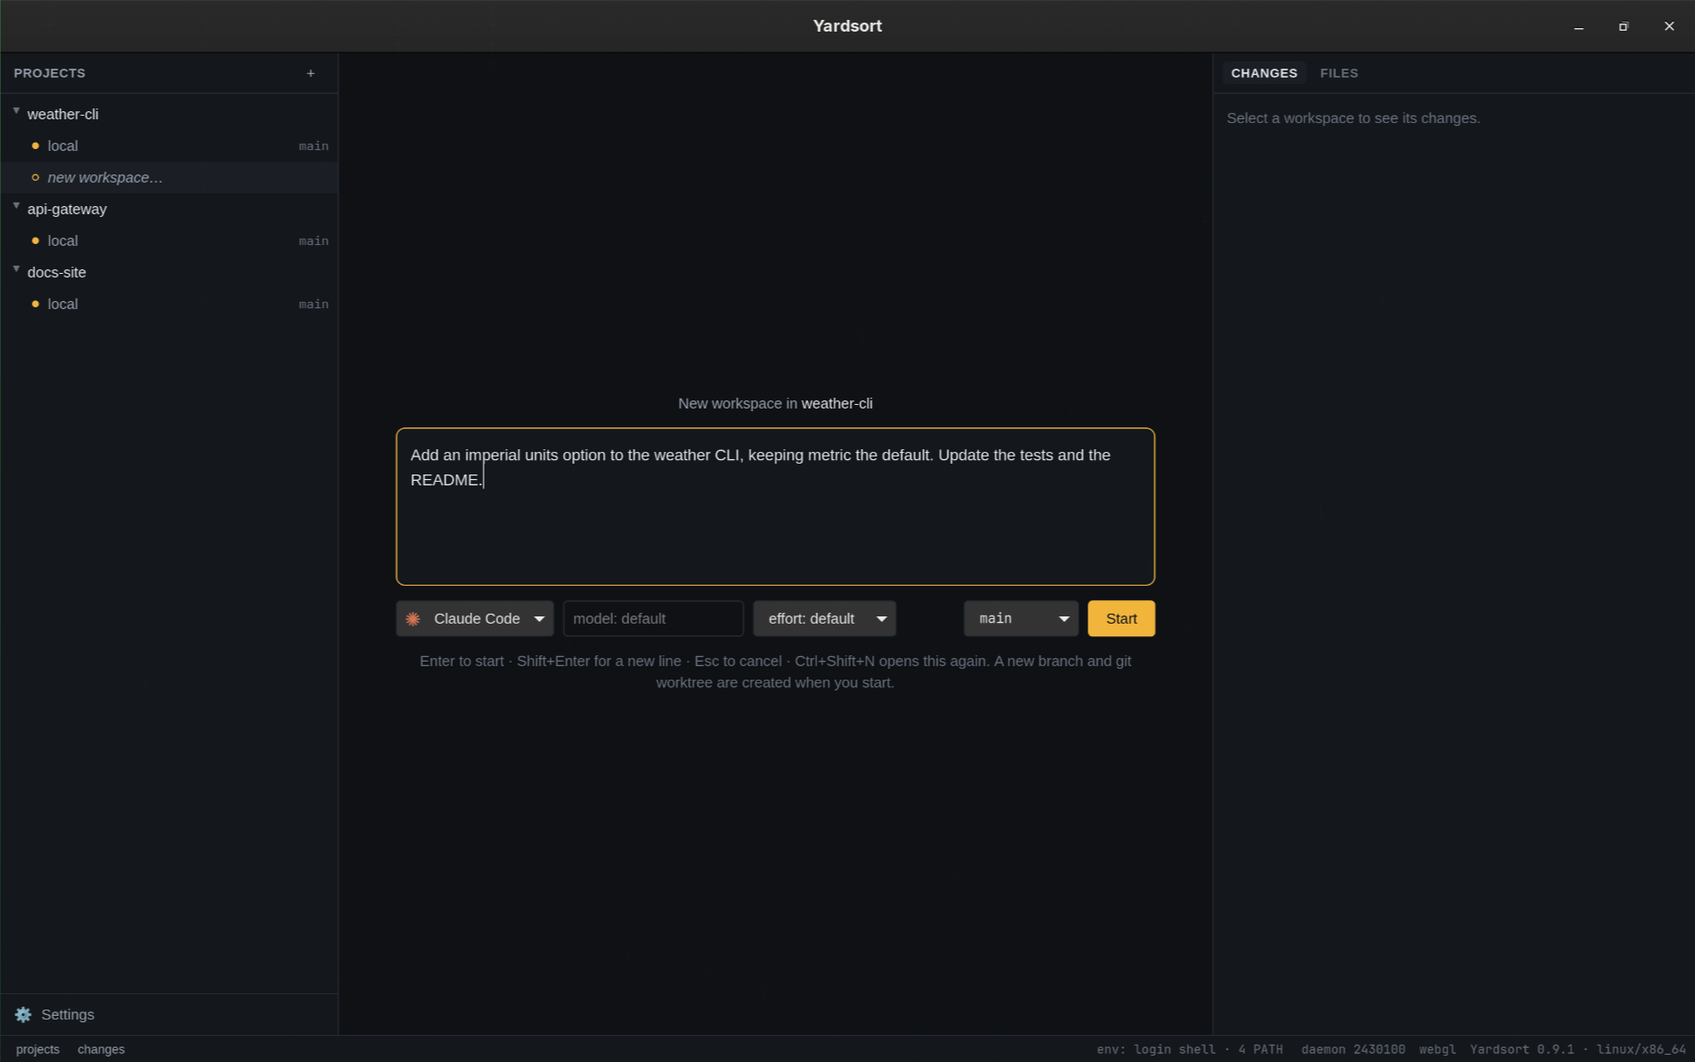
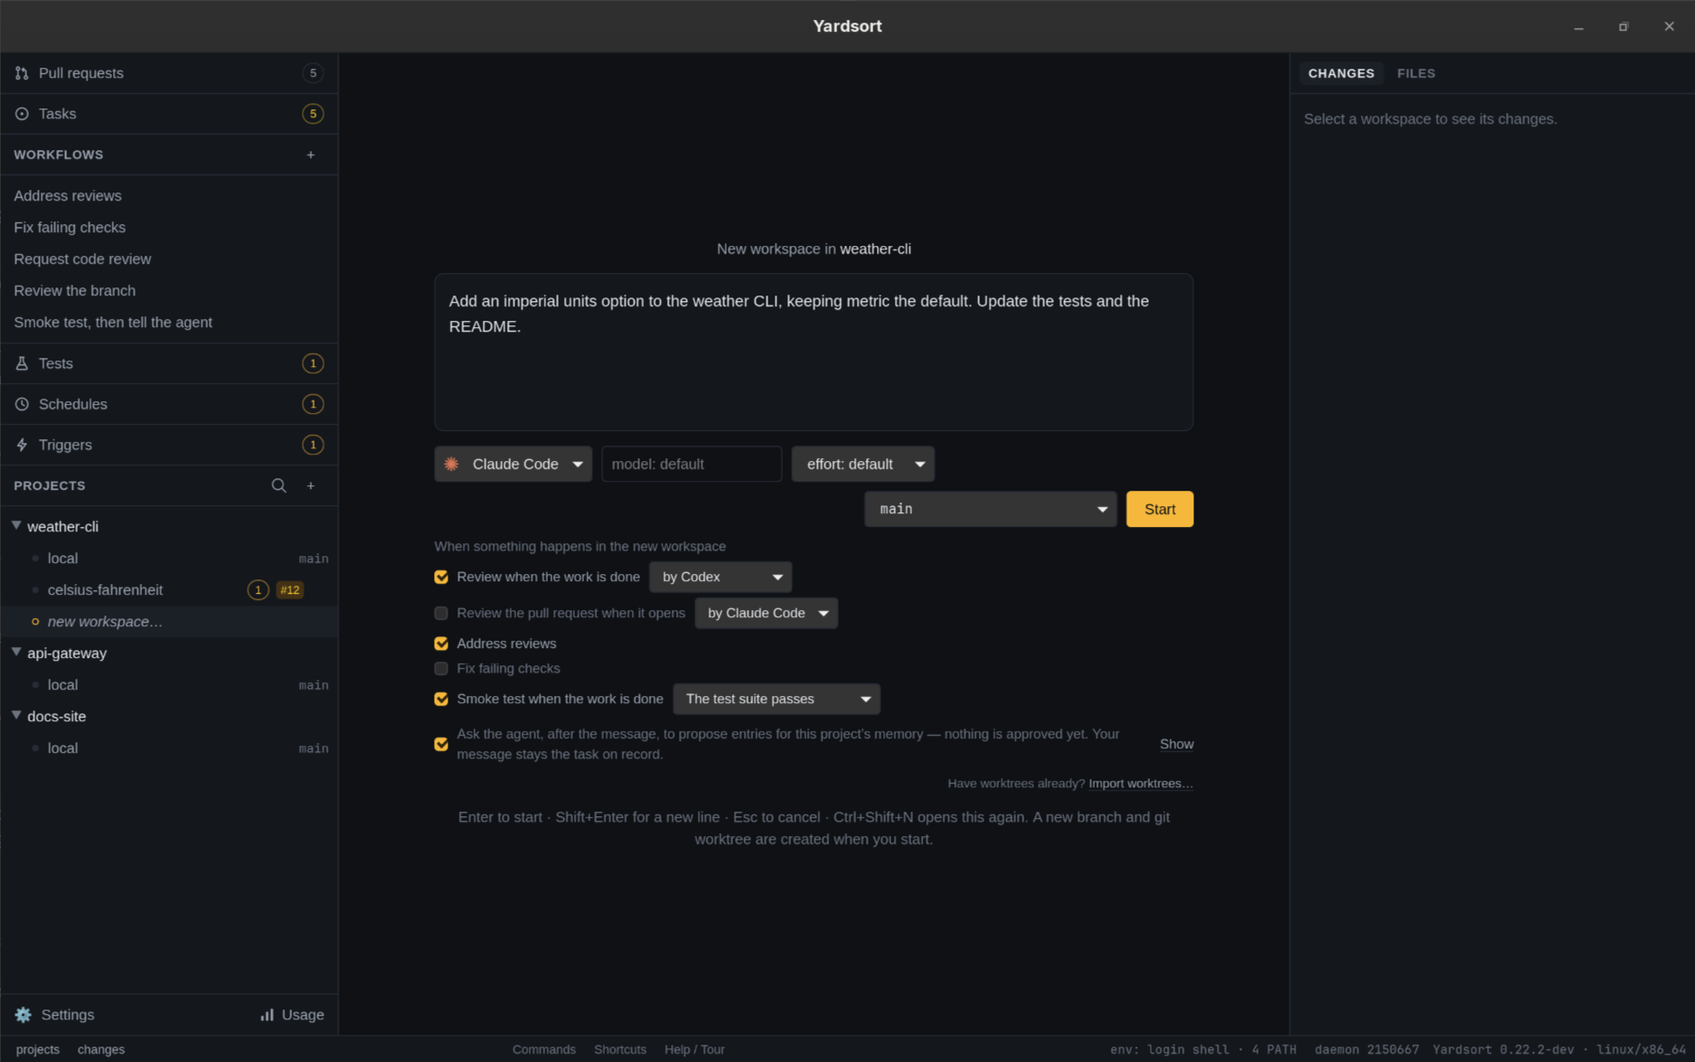
Triggers, slice 5: the documentation, finished (M29)
- README: a highlight, a "Triggers: when something happens" section with a screenshot and two
  commands, and Schedules and Triggers in the documentation table.
- Site: a "10 · Triggers" section on the landing page, `ys trigger add --preset` among its
  commands, and the guide's description naming pull request and custom events.
- Screenshots: docs/images/triggers.png, new; composer.png retaken with the trigger presets
  (it was from 0.9.1).
- scripts/screenshots.sh seed adds five triggers with their history and #12's watch as already
  seen, and the stand-in gh answers a watch's question for every open demo pull request.
- The quick start says what the composer's boxes are; trigger paragraphs reflowed to 100
  columns; slice 5 recorded in the design and ticked on the roadmap. M29's exit still wants
  macOS and Windows by hand.

diff --git a/website/src/components/landing/ideas.tsx b/website/src/components/landing/ideas.tsx
@@ -88,7 +88,7 @@ export function Ideas() {
           shot={
             <Shot
               name="composer"
-              alt="The composer: describe a task, pick an agent, model, effort and branch"
+              alt="The composer: describe a task, pick an agent, model, effort and branch, and tick the triggers the new workspace gets"
             />
           }
         >
@@ -327,6 +327,39 @@ export function Ideas() {
             project&apos;s schedules with the next time each fires and how its last time went. A
             notification tells you when a run fails, and a schedule approves nothing: a smoke test
             file nobody has approved still waits for you. <code className={code}>ys schedule</code>{" "}
+            does it all from a terminal.
+          </p>
+        </Idea>
+
+        <Idea
+          shotFirst
+          label="10 · Triggers"
+          title="When something happens"
+          shot={
+            <Shot
+              name="triggers"
+              alt="Triggers: every trigger with its event, what it runs and how its last run went, and one open with its history"
+            />
+          }
+        >
+          <p>
+            A trigger starts a workflow or a smoke test when something happens in a workspace: the
+            agent says its work is done, someone reviews the pull request, its checks fail, a run
+            ends, or an agent, a test or a script raises an event you named with{" "}
+            <code className={code}>ys event emit</code>.
+          </p>
+          <p>
+            Five come ready made — <strong className={strong}>Address reviews</strong>,{" "}
+            <strong className={strong}>Fix failing checks</strong>, a review when the pull request
+            opens, and a review or a smoke test when the work is done — and the composer offers them
+            as boxes to tick for each new workspace. By default only posts from other accounts
+            count, since the agents answer as yours.
+          </p>
+          <p>
+            <strong className={strong}>Triggers</strong>, in the sidebar, lists every project&apos;s
+            triggers with their history. A trigger stops after three runs for one pull request until
+            you reset it, unless you give it more; it starts at most ten an hour; and a chain of
+            runs that set each other off stops three deep. <code className={code}>ys trigger</code>{" "}
             does it all from a terminal.
           </p>
         </Idea>

diff --git a/website/src/lib/docs.ts b/website/src/lib/docs.ts
@@ -146,7 +146,7 @@ export const DOCS_NAV: DocSection[] = [
         slug: "guide/triggers",
         title: "Triggers",
         description:
-          "Start a workflow or a smoke test in Yardsort when something happens: an agent says it is done, finishes a turn or exits, or a run ends, with limits against loops and ys trigger.",
+          "Start a workflow or a smoke test in Yardsort when something happens: an agent says it is done, a pull request gets a review or failing checks, a run ends, or a custom event, with presets, limits against loops and ys trigger.",
       },
       {
         slug: "guide/updates",

diff --git a/website/src/components/landing/cli.tsx b/website/src/components/landing/cli.tsx
@@ -43,6 +43,10 @@ const LINES: { command: string; note: string }[] = [
     note: "run a smoke test and read its verdict with ys test wait",
   },
   {
+    command: "ys trigger add --preset address-reviews",
+    note: "in a workspace's folder: its agent answers every review on the pull request",
+  },
+  {
     command: "ys workspace delete fix-the-flaky-login-test",
     note: "the folder goes; the branch stays",
   },

diff --git a/docs/guide/triggers.md b/docs/guide/triggers.md
@@ -1,11 +1,11 @@
 # Triggers
 
-A trigger starts a [workflow](workflows.md) or a [smoke test](smoke-tests.md) when something
-happens in a workspace, instead of when you press **Run** or a [schedule](schedules.md)'s time
-comes: an agent says its work is done, an agent finishes a turn or exits, a smoke test or a
-workflow run ends, something happens on the workspace's pull request — it opens, a review or a
-comment comes in, its checks fail — or something you name happens, which an agent, a smoke test
-or a script says with [`ys event emit`](#custom-events). What it starts is an ordinary run, in that workspace, with the
+A trigger starts a [workflow](workflows.md) or a [smoke test](smoke-tests.md) when something happens
+in a workspace, instead of when you press **Run** or a [schedule](schedules.md)'s time comes: an
+agent says its work is done, an agent finishes a turn or exits, a smoke test or a workflow run ends,
+something happens on the workspace's pull request — it opens, a review or a comment comes in, its
+checks fail — or something you name happens, which an agent, a smoke test or a script says with
+[`ys event emit`](#custom-events). What it starts is an ordinary run, in that workspace, with the
 inputs you gave the trigger.
 
 For example: when someone reviews the pull request of `fix-login`, tell its agent to address the
@@ -16,11 +16,13 @@ composer offers the [ready-made ones](#ready-made-triggers) for each new workspa
 `ys trigger` does all of it from a terminal. The runs show in the workflow's runs and in
 **Tests** like any other, marked _triggered_ with the trigger's name.
 
+![Triggers: every trigger with its event, what it runs and how its last run went, and Address reviews open with its history](../images/triggers.png)
+
 Three things to know before you make one:
 
 - **Triggers fire while Yardsort is open.** What happened while it was closed — an agent that ran
-  `ys workspace done` or `ys event emit`, a run that ended, a turn its agent reported, a review posted — is found
-  when it next opens, and acted on once.
+  `ys workspace done` or `ys event emit`, a run that ended, a turn its agent reported, a review
+  posted — is found when it next opens, and acted on once.
 - **Only what happens after you make it counts.** A trigger never fires for something that
   happened before it was saved, or while it was switched off.
 - **A trigger approves nothing.** A smoke test file nobody has approved waits for you, as it does
@@ -28,8 +30,8 @@ Three things to know before you make one:
 
 ## Ready-made triggers
 
-Five triggers come ready made, each an event and a built-in [workflow](workflows.md#where-workflows-come-from),
-with at most one question:
+Five triggers come ready made, each an event and a built-in
+[workflow](workflows.md#where-workflows-come-from), with at most one question:
 
 | Preset               | When                                                                        | Runs              | Asks for                  |
 | -------------------- | --------------------------------------------------------------------------- | ----------------- | ------------------------- |
@@ -39,15 +41,15 @@ with at most one question:
 | `review-when-done`   | The agent says its work is done                                             | `review-branch`   | `reviewer`: who reviews   |
 | `smoke-when-done`    | The agent says its work is done                                             | `smoke-then-tell` | `suite`: which smoke test |
 
-**In the composer**, under the message, each preset has a box to tick, with its one question
-beside it: _☐ Review when the work is done, by [Codex ▾]_. Each one ticked becomes a trigger on
-the new workspace before its agent starts, so an agent whose workspace listens for
+**In the composer**, under the message, each preset has a box to tick, with its one question beside
+it: _☐ Review when the work is done, by [Codex ▾]_. Each one ticked becomes a trigger on the new
+workspace before its agent starts, so an agent whose workspace listens for
 [`ys workspace done`](#the-done-signal) is told about it in its first message. The composer
-remembers, per project, which were ticked last time and their answers. **Smoke test when the work
-is done** offers the smoke tests in the project's own checkout, and cannot be ticked in a project
-that has none. While those tests are still being read, a ticked one says so and **Start** waits,
-so it is never left out unasked. A preset that cannot be added — its test is not on the new branch, say — is said
-once the workspace has started; the workspace and its agent start all the same.
+remembers, per project, which were ticked last time and their answers. **Smoke test when the work is
+done** offers the smoke tests in the project's own checkout, and cannot be ticked in a project that
+has none. While those tests are still being read, a ticked one says so and **Start** waits, so it is
+never left out unasked. A preset that cannot be added — its test is not on the new branch, say — is
+said once the workspace has started; the workspace and its agent start all the same.
 
 **In the trigger dialog**, **Start from** fills the dialog in from a preset, to change before
 saving. Left without a name, the trigger is called what the preset is.
@@ -259,9 +261,9 @@ time, because another time will come; something that happened will not happen ag
 **It stops before it loops.** Three limits, each told to you once:
 
 - **The cap.** At most `--cap` runs — three by default — for one agent session, for an agent's
-  events, for one pull request, for the pull request's, or for the workspace, for the rest. The next fire is **capped**, you are told, and the
-  trigger starts nothing more for it until you press **Reset** on it in the **Triggers** view, or
-  run `ys trigger reset`.
+  events, for one pull request, for the pull request's, or for the workspace, for the rest. The next
+  fire is **capped**, you are told, and the trigger starts nothing more for it until you press
+  **Reset** on it in the **Triggers** view, or run `ys trigger reset`.
 - **The rate.** At most ten runs an hour for one trigger, whatever the cap.
 - **Chains.** A run a trigger started can end in an event another trigger listens for. A run a
   person or a schedule started is depth 0; a run started by the ending of a run of depth _n_ is

diff --git a/README.md b/README.md
@@ -92,6 +92,12 @@ It is modeled on tools like Conductor and Superset, with the requirement they do
   you pick, or again and again — every weekday at nine, every two hours, a cron expression — in
   a workspace you already have, while Yardsort is open. A notification tells you when a run
   fails. [Schedules](docs/guide/schedules.md).
+- **Triggers: when something happens.** Start a workflow or a smoke test when an agent says its
+  work is done, someone reviews the pull request, its checks fail, a run ends, or something you
+  name happens. Ready-made ones — address reviews, fix failing checks, review or smoke test the
+  work when it is done — are a box to tick when you start a workspace. A cap per pull request, an
+  hourly limit and a limit on chains keep a trigger from looping.
+  [More below](#triggers-when-something-happens).
 - **See what happened.** Live list of changed files, character-level diffs, a file tree, and
   image previews. Edit text files inside Yardsort, with retained drafts and a check before
   overwriting a file changed on disk, or open them in your editor. With an agent reporting,
@@ -180,7 +186,7 @@ It is modeled on tools like Conductor and Superset, with the requirement they do
 
 <table>
   <tr>
-    <td width="50%"><img src="docs/images/composer.png" alt="The composer: describe a task, pick an agent, model, effort and branch" /></td>
+    <td width="50%"><img src="docs/images/composer.png" alt="The composer: describe a task, pick an agent, model, effort and branch, and tick the triggers the new workspace gets" /></td>
     <td width="50%"><img src="docs/images/sessions.png" alt="Previous sessions with Resume and Fork" /></td>
   </tr>
   <tr>
@@ -424,6 +430,35 @@ ys test run login --workspace fix-login   # the result from `ys test wait`
 
 See [Smoke tests](docs/guide/smoke-tests.md).
 
+## Triggers: when something happens
+
+A trigger starts a workflow or a smoke test in a workspace when something happens there, instead
+of when you press **Run**: the agent runs `ys workspace done`, finishes a turn or exits; a smoke
+test or a workflow run ends; the workspace's pull request opens, gets a review or a comment from
+someone else, or its checks fail; or an agent, a test or a script raises an event you named with
+`ys event emit`. What it starts is an ordinary run, marked _triggered_.
+
+Five come ready made, each an event and a built-in workflow: **Address reviews**, **Fix failing
+checks**, **Review the pull request when it opens**, and **Review** or **Smoke test when the work
+is done**. The composer offers them as boxes to tick for each new workspace, and an agent whose
+workspace listens for `ys workspace done` is told to run it in its first message.
+
+![Triggers: every trigger with its event, what it runs and how its last run went, and one open with its history](docs/images/triggers.png)
+
+**Triggers**, in the sidebar, lists every project's triggers, and the dialog says in a sentence what
+one will do before you save it. Agents answer reviews as your account, so only posts from other
+accounts count unless you say so. A trigger stops after three runs for one pull request, agent or
+workspace, unless you give it more, until you press **Reset**; it starts at most ten an hour; and a
+chain of runs that set each other off stops three deep. Triggers fire while Yardsort is open; what
+happened while it was closed is found when it opens.
+
+```sh
+ys trigger add --preset address-reviews --workspace fix-login
+ys event emit migration-written --note "0042 adds users.last_seen"
+```
+
+See [Triggers](docs/guide/triggers.md).
+
 ## Supported agents
 
 Yardsort starts any coding agent that runs in a terminal. These work out of the box:
@@ -555,6 +590,8 @@ says no.
 | [Tasks](docs/guide/tasks.md)                                                                     | Every project's GitHub issues: which need an answer, hand one to an agent            |
 | [Workflows](docs/guide/workflows.md)                                                             | Named agent work in YAML: the built-in code review, your own                         |
 | [Smoke tests](docs/guide/smoke-tests.md)                                                         | A file an agent writes and Yardsort runs: steps, browser, approval, the Tests view   |
+| [Schedules](docs/guide/schedules.md)                                                             | A workflow or a smoke test at a set time, or on a routine                            |
+| [Triggers](docs/guide/triggers.md)                                                               | A workflow or a smoke test when something happens: done, a review, failing checks    |
 | [Remote](docs/guide/remote.md)                                                                   | Your phone, through a server. Still under development, and off until you turn it on  |
 | [A computer with no screen](docs/guide/headless-host.md)                                         | `yardsort-host`: a Linux server your phone reaches. Still under development          |
 | [Usage](docs/guide/usage.md)                                                                     | Tokens spent and their cost; CPU and memory per agent                                |

diff --git a/docs/design/36-triggers.md b/docs/design/36-triggers.md
@@ -1,9 +1,9 @@
 # Triggers
 
 _Proposal, 2026-11-06. The questions put to the user that day are answered under
-[Decisions](#decisions). Slices 1 to 4 are built: see [Slice 1](#slice-1-what-shipped),
-[Slice 2](#slice-2-what-shipped), [Slice 3](#slice-3-what-shipped) and
-[Slice 4](#slice-4-what-shipped)._
+[Decisions](#decisions). All five slices are built: see [Slice 1](#slice-1-what-shipped),
+[Slice 2](#slice-2-what-shipped), [Slice 3](#slice-3-what-shipped),
+[Slice 4](#slice-4-what-shipped) and [Slice 5](#slice-5-what-shipped)._
 
 A trigger starts a [workflow](21-workflows.md) or a [smoke test](32-smoke-tests.md) when
 something happens, instead of when a person presses **Run** or a [schedule](34-schedules.md)'s
@@ -863,3 +863,31 @@ does not do" points here); `docs/guide/workspaces.md` (the composer's presets);
 `docs/guide/pull-requests.md`; `README.md` and the landing page; `CHANGELOG.md`;
 [03-architecture](03-architecture.md) (the third producer of runs); [05-roadmap](05-roadmap.md)
 (M29); [06-open-questions](06-open-questions.md) (48–52); [08](08-manual-checklist.md).
+
+## Slice 5: what shipped
+
+The documentation, finished. The guide, the command-line guide, the workflows, schedules,
+workspaces and smoke tests guides, and the changelog had each been brought along with the slice
+that changed them, so this slice was what the earlier ones left:
+
+- **The README**: a highlight, a _Triggers: when something happens_ section with a screenshot and
+  two commands, and rows for Schedules and Triggers in the documentation table, which had neither.
+- **The site**: a _10 · Triggers_ section on the landing page, `ys trigger add --preset` among its
+  commands, and the guide's description in `website/src/lib/docs.ts` naming the pull request and
+  custom events.
+- **Screenshots**: `docs/images/triggers.png`, the view with **Address reviews** open on its
+  history, in the README, the guide and the landing page; and `composer.png` retaken, since it was
+  from 0.9.1 and showed none of the presets.
+- **The seed**: `scripts/screenshots.sh seed` adds five triggers with their history — three
+  presets on the pull request's workspace, one of them capped so the sidebar counts it, a custom
+  event in weather-cli, and one switched off in api-gateway — and the stand-in `gh` answers a
+  watch's question for every open demo pull request.
+- The paragraphs the slices had left over 100 columns, reflowed.
+
+Taking the shot found one thing, in the seed: with no watch row, the app's first look at #12 told
+the review and the comment there, since they are newer than the seeded triggers, and **Address
+reviews** fired and was skipped for want of an agent. The seed now writes the watch as having
+seen them, and a fresh profile, seeded and left open past a look, fired nothing.
+
+**M29's exit is not met yet.** It asks for all three platforms by hand, and macOS and Windows have
+had the tests in CI only.

diff --git a/docs/guide/workflows.md b/docs/guide/workflows.md
@@ -170,10 +170,11 @@ ys workflow run fix-tests --workspace fix-login --input fixer=claude
 ```
 
 **Schedule…**, beside **Run…**, runs the workflow at a set time or on a routine instead: see
-[Schedules](schedules.md). A [trigger](triggers.md) runs it when something happens in a workspace — an
-agent says it is done, a test fails — made in the **Triggers** view or with `ys trigger add`. A trigger's workflow must give each
-`run_test` step a `timeout`. A workflow with a `run_test` step can be scheduled only when that
-test can run with nobody there: no `manual` step, and a file you have approved.
+[Schedules](schedules.md). A [trigger](triggers.md) runs it when something happens in a workspace —
+an agent says it is done, a test fails — made in the **Triggers** view or with `ys trigger add`. A
+trigger's workflow must give each `run_test` step a `timeout`. A workflow with a `run_test` step can
+be scheduled only when that test can run with nobody there: no `manual` step, and a file you have
+approved.
 
 `--workspace` takes a workspace's name or id. Run it inside a workspace's folder, or in an
 agent's terminal there, and it can be left out. Give each input as `--input id=value`. `ys`

diff --git a/docs/guide/workspaces.md b/docs/guide/workspaces.md
@@ -41,9 +41,9 @@ done, address reviews, fix failing checks, and the rest — each with a box to t
 question beside it, such as who reviews. Each one ticked becomes a trigger on the new workspace
 before its agent starts. They are not offered when running in a workspace that already exists.
 
-Your last choices are remembered per project, the ticked triggers among them. With [Assist](assist.md) switched on, a line under
-the pickers may offer a harness and an effort for what you are typing; **Use** applies it, and
-ignoring it does nothing.
+Your last choices are remembered per project, the ticked triggers among them. With
+[Assist](assist.md) switched on, a line under the pickers may offer a harness and an effort for what
+you are typing; **Use** applies it, and ignoring it does nothing.
 
 **Drop a file on the composer** to put its path in the message, at the cursor, so the agent starts
 already pointed at it. Drop several and each path is added, separated by spaces. The composer is

diff --git a/docs/design/05-roadmap.md b/docs/design/05-roadmap.md
@@ -1150,6 +1150,10 @@ Proposed in [36-triggers](36-triggers.md), after a four-question design pass on 
       at saving, and `emit` naming what is listened for when nothing is; one raised by a smoke
       test's `run` step one deeper than its run. Recorded in
       [36 § slice 4](36-triggers.md#slice-4-what-shipped).
+- [x] Slice 5: the documentation, finished. The README's highlight and section, the landing
+      page's section and command, the Triggers screenshot and the composer's retaken, and five
+      triggers with their history in `scripts/screenshots.sh seed`. The exit below still wants
+      macOS and Windows by hand. Recorded in [36 § slice 5](36-triggers.md#slice-5-what-shipped).
 
 _Exit:_ on all three platforms, a workspace started with **Address reviews** ticked has its agent
 told of a review posted from a second account, once, two minutes after its last comment; the

diff --git a/docs/quick-start.md b/docs/quick-start.md
@@ -123,6 +123,10 @@ Pick the agent, optionally a model and effort level, and press **Enter**. Yardso
 The first time an agent sees a new folder it may ask whether you trust it; answer in the terminal
 as you normally would.
 
+The boxes under the message are [ready-made triggers](guide/triggers.md#ready-made-triggers):
+tick one to have, say, a second agent review the work when the first says it is done. Leave them
+unticked for now if you like; they can be added to a workspace later.
+
 ## 6. Watch, review, repeat
 
 ![Yardsort at work](images/overview.png)
